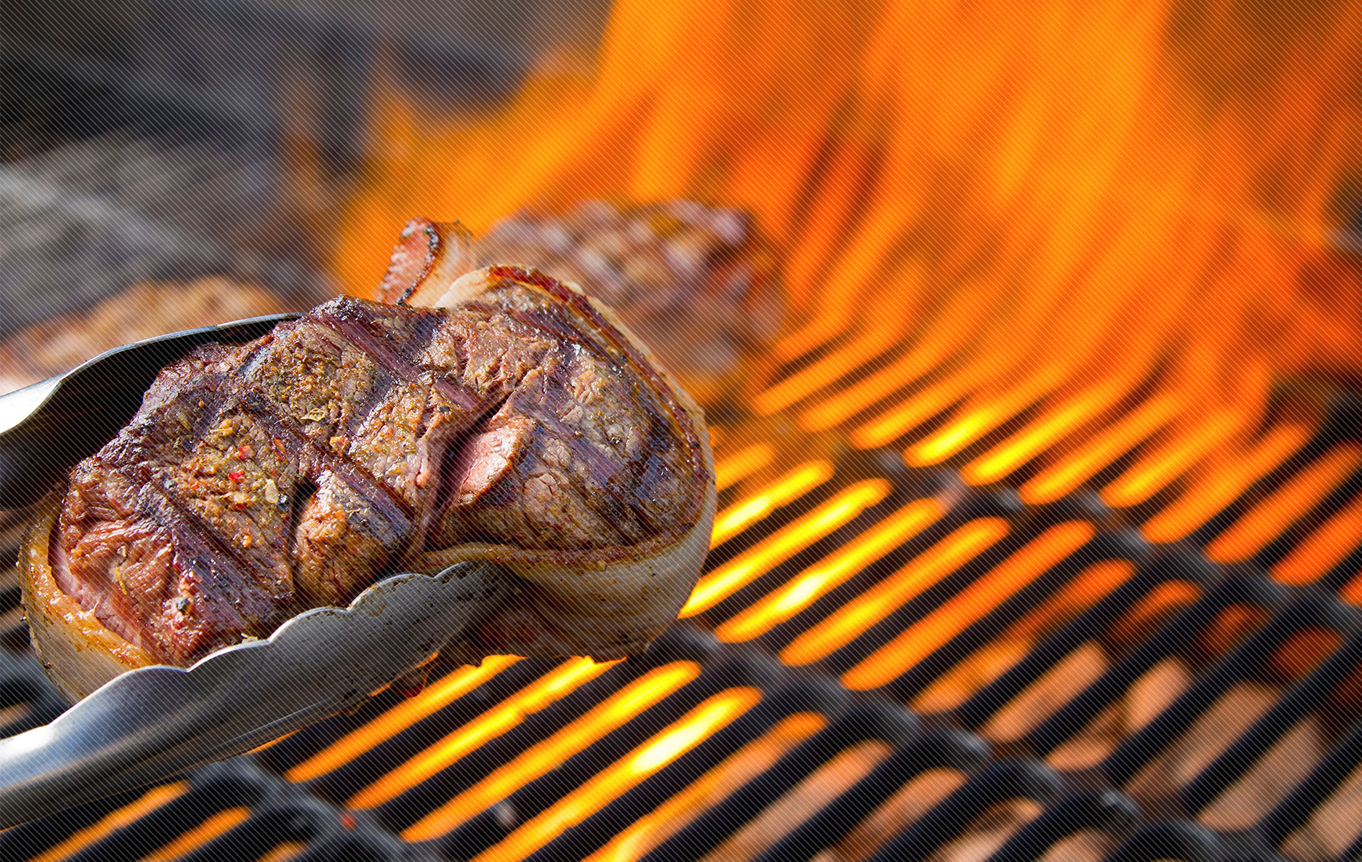
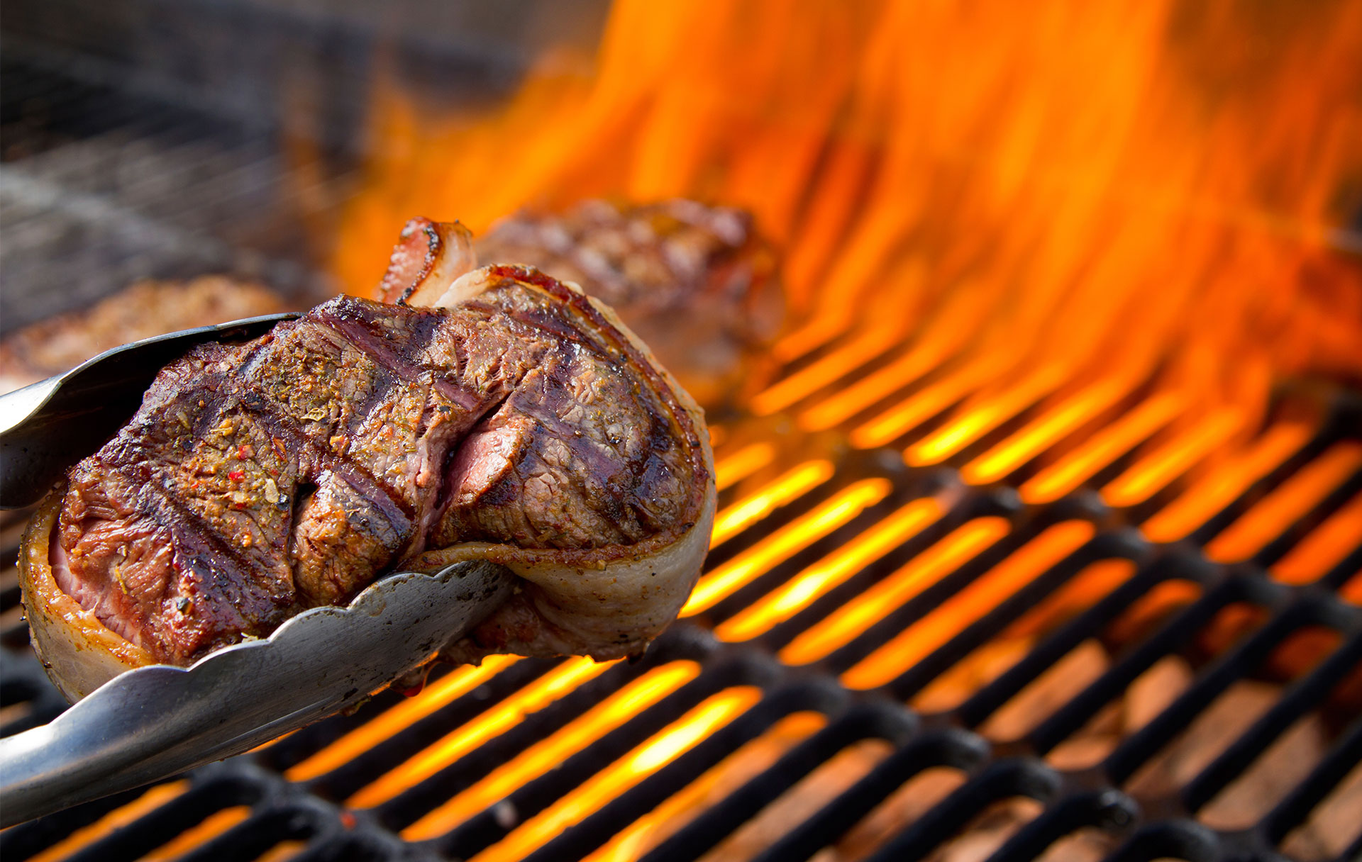
Made quite a few updates to the UX codebase

Changed region(s): [[0.0, 0.0, 1.0, 1.0]]

diff --git a/static/scripts/core.min.js b/static/scripts/core.min.js
@@ -1,1 +1,1 @@
-var Core=Core||{};Core={constructor:function(){this.isChrome=/Chrome/.test(navigator.userAgent)&&/Google Inc/.test(navigator.vendor),this.isSafari=/Safari/.test(navigator.userAgent)&&/Apple Computer/.test(navigator.vendor),this.bodyTag=$("body"),this.bodyTag.removeClass("no-js").addClass("js"),this.viewportHeight=this.bodyTag.outerHeight(!0),this.viewportWidth=this.bodyTag.outerWidth(!0)},init:function(){var t=this;t.detectSvgSupport()},detectSvgSupport:function(){Modernizr.svg||$('img[src*="svg"]').attr("src",function(){return $(this).attr("src").replace(".svg",".png")})},responsiveLogger:function(){var t=this;t.screenLogger=$('<div style="position:absolute;left:5px;top:5px;padding:10px;font-size:12px;background:black;color:#fff;z-index:10000;opacity:0.8"></div>'),t.screenLogger.appendTo("body"),setInterval(function(){t.viewportWidth=$("body").outerWidth(!0),t.screenLogger.html(t.viewportWidth+"px")},500)}},$(document).ready(function(){Core.init()});
+var Core=Core||{};Core={constructor:function(){this.isChrome=/Chrome/.test(navigator.userAgent)&&/Google Inc/.test(navigator.vendor),this.isSafari=/Safari/.test(navigator.userAgent)&&/Apple Computer/.test(navigator.vendor),this.bodyTag=$("body"),this.bodyTag.removeClass("no-js").addClass("js"),this.viewportHeight=this.bodyTag.outerHeight(!0),this.viewportWidth=this.bodyTag.outerWidth(!0)},init:function(){var t=this;t.constructor(),t.detectSvgSupport()},detectSvgSupport:function(){Modernizr.svg||$('img[src*="svg"]').attr("src",function(){return $(this).attr("src").replace(".svg",".png")})},setHeightToParent:function(t,e){var o=t.parents(e).outerHeight(!0);t.css("height",o+"px")},responsiveLogger:function(){var t=this;t.screenLogger=$('<div style="position:absolute;left:5px;top:5px;padding:10px;font-size:12px;background:black;color:#fff;z-index:10000;opacity:0.8"></div>'),t.screenLogger.appendTo("body"),setInterval(function(){t.viewportWidth=$("body").outerWidth(!0),t.screenLogger.html(t.viewportWidth+"px")},500)}},$(document).ready(function(){Core.init()});

diff --git a/static/scripts/core.js b/static/scripts/core.js
@@ -18,6 +18,7 @@ Core = {
 
     init: function () {
         var o = this;
+        o.constructor();
         o.detectSvgSupport();
         //o.responsiveLogger(); // Only turn on in dev environment
     },
@@ -28,6 +29,11 @@ Core = {
                 return $(this).attr('src').replace('.svg', '.png');
             });
         }
+    },
+
+    setHeightToParent: function (element, parent) {
+        var getHeight = element.parents(parent).outerHeight(true);
+        element.css('height', getHeight+'px');
     },
 
     responsiveLogger: function() {

diff --git a/static/styles/sass/js.scss b/static/styles/sass/js.scss
@@ -1,0 +1,12 @@
+/* The styles in this sheet are only visible when JS is enabled */
+.js {
+    .pixel-overlay {
+        position: absolute;
+        left: 0;
+        top: 0;
+        width: 100%;
+        height: 100%;
+        background-image: url(/static/images/pixel-pattern.png);
+        background-repeat: repeat;
+    }
+}

diff --git a/static/styles/sass/core.scss b/static/styles/sass/core.scss
@@ -2,5 +2,6 @@
 @import "_variables";
 @import "classes";
 @import "custom";
+@import "js";
 
 /* test */
